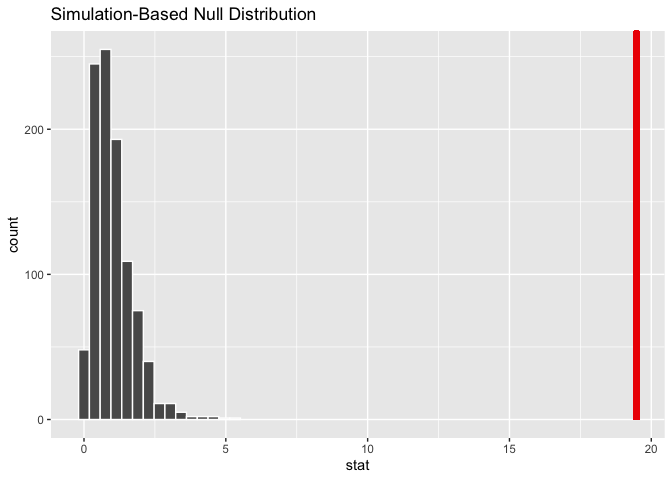
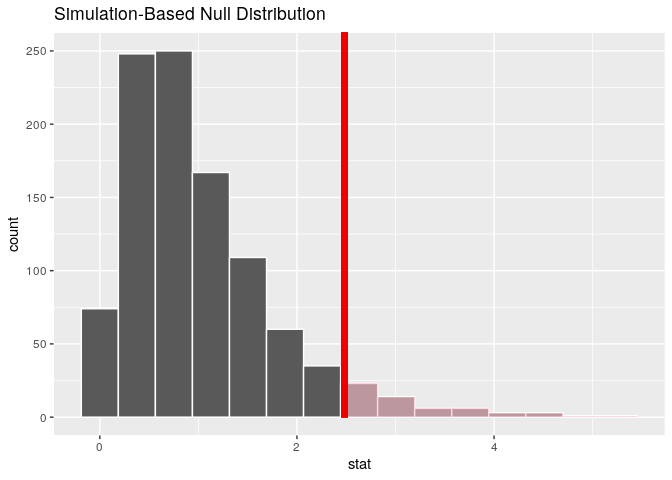
Knit 'README.Rmd'.

Changed region(s): [[0.0312, 0.0, 1.0, 1.0], [0.0, 0.4688, 0.0312, 0.5312]]

diff --git a/README.md b/README.md
@@ -14,8 +14,6 @@
 [![CRAN\_Status\_Badge](https://www.r-pkg.org/badges/version/infer)](https://cran.r-project.org/package=infer)
 [![Travis-CI Build
 Status](https://travis-ci.org/tidymodels/infer.svg?branch=master)](https://travis-ci.org/tidymodels/infer)
-[![AppVeyor Build
-Status](https://ci.appveyor.com/api/projects/status/github/tidymodels/infer?branch=master&svg=true)](https://ci.appveyor.com/project/tidymodels/infer)
 [![Coverage
 Status](https://img.shields.io/codecov/c/github/tidymodels/infer/master.svg)](https://codecov.io/github/tidymodels/infer/?branch=master)
 
@@ -100,20 +98,18 @@ data(gss)
 str(gss)
 ```
 
-    ## Classes 'tbl_df', 'tbl' and 'data.frame':    3000 obs. of  11 variables:
-    ##  $ year   : num  2008 2006 1985 1987 2006 ...
-    ##   ..- attr(*, "label")= chr "gss year for this respondent "
-    ##   ..- attr(*, "format.stata")= chr "%8.0g"
-    ##  $ age    : num  37 29 58 40 39 37 53 41 55 47 ...
-    ##  $ sex    : Factor w/ 2 levels "male","female": 1 2 1 1 2 1 2 1 1 1 ...
-    ##  $ college: Factor w/ 2 levels "no degree","degree": 1 1 2 2 1 1 1 1 1 1 ...
-    ##  $ partyid: Factor w/ 5 levels "dem","ind","rep",..: 1 1 2 3 1 1 1 3 2 3 ...
-    ##  $ hompop : num  4 3 3 5 5 5 4 1 5 4 ...
-    ##  $ hours  : num  50 NA 60 84 40 50 NA 60 NA 40 ...
-    ##  $ income : Ord.factor w/ 12 levels "lt $1000"<"$1000 to 2999"<..: 12 1 12 12 6 12 11 12 NA 12 ...
-    ##  $ class  : Factor w/ 6 levels "lower class",..: 2 3 3 3 NA 2 2 2 3 2 ...
-    ##  $ finrela: Factor w/ 6 levels "far below average",..: 2 2 5 1 NA 3 NA 3 3 3 ...
-    ##  $ weight : num  0.875 0.43 1.554 1.01 0.859 ...
+    ## Classes 'tbl_df', 'tbl' and 'data.frame':    500 obs. of  11 variables:
+    ##  $ year   : num  2014 1994 1998 1996 1994 ...
+    ##  $ age    : num  36 34 24 42 31 32 48 36 30 33 ...
+    ##  $ sex    : Factor w/ 2 levels "male","female": 1 2 1 1 1 2 2 2 2 2 ...
+    ##  $ college: Factor w/ 2 levels "no degree","degree": 2 1 2 1 2 1 1 2 2 1 ...
+    ##  $ partyid: Factor w/ 5 levels "dem","ind","rep",..: 2 3 2 2 3 3 1 2 3 1 ...
+    ##  $ hompop : num  3 4 1 4 2 4 2 1 5 2 ...
+    ##  $ hours  : num  50 31 40 40 40 53 32 20 40 40 ...
+    ##  $ income : Ord.factor w/ 12 levels "lt $1000"<"$1000 to 2999"<..: 12 11 12 12 12 12 12 12 12 10 ...
+    ##  $ class  : Factor w/ 6 levels "lower class",..: 3 2 2 2 3 3 2 3 3 2 ...
+    ##  $ finrela: Factor w/ 6 levels "far below average",..: 2 2 2 4 4 3 2 4 3 1 ...
+    ##  $ weight : num  0.896 1.083 0.55 1.086 1.083 ...
 
 As an example, we’ll run an analysis of variance on `age` and `partyid`,
 testing whether the age of a respondent is independent of their
@@ -157,7 +153,7 @@ null_distn %>%
     ## # A tibble: 1 x 1
     ##   p_value
     ##     <dbl>
-    ## 1       0
+    ## 1   0.056
 
 Note that the formula and non-formula interfaces (i.e. `age ~ partyid`
 vs. `response = age, explanatory = partyid`) work for all implemented
